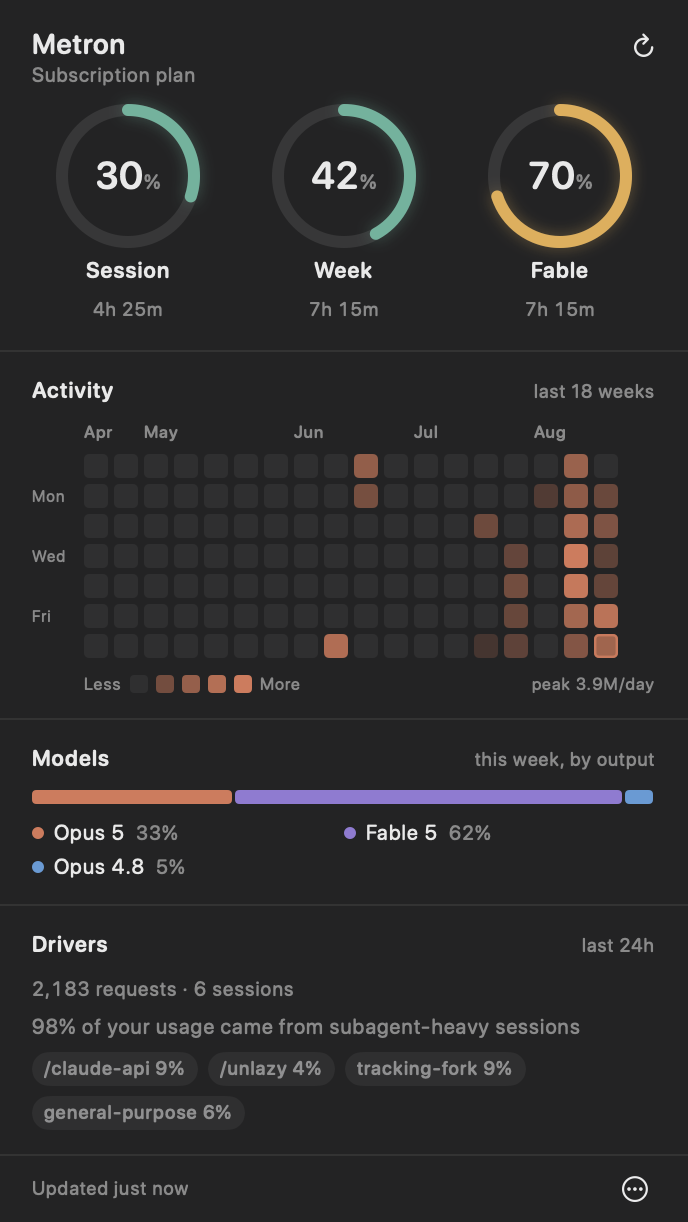
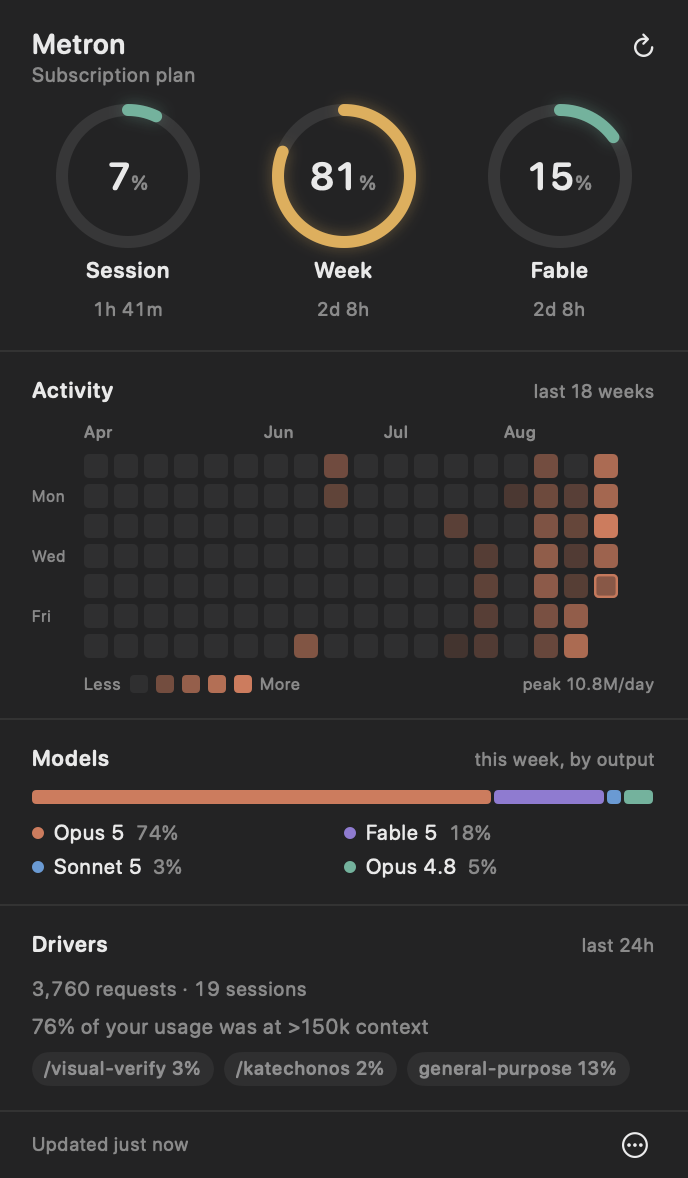
Docs and licence for the multi-glance app
README covers the four glances, where each number comes from, the widget
sizes and the multi-display controls, and the defaults keys that have no
UI. Adds a note on why these are ordinary windows rather than WidgetKit
extensions: a WidgetKit timeline reload is system-budgeted to tens of
refreshes a day, which is fine for a forecast and useless for a CPU meter.

MIT licence, ahead of publishing.

diff --git a/Sources/Metron/Glances/Usage/UsageWidgets.swift b/Sources/Metron/Glances/Usage/UsageWidgets.swift
@@ -95,14 +95,14 @@ struct UsageLarge: View {
                 }
             }
 
-            Spacer().frame(height: 12)
+            Spacer(minLength: 12)
 
             Text("ACTIVITY")
                 .font(Theme.rounded(8.5, .semibold))
                 .tracking(0.6)
                 .foregroundStyle(Theme.subtle)
                 .padding(.bottom, 6)
-            HeatmapView(history: store.history, weeks: 18, cell: 7, gap: 2.5, showsLegend: false)
+            HeatmapView(history: store.history, weeks: 18, cell: 9, gap: 3, showsLegend: false)
 
             if !store.history.modelTotalsThisWeek.isEmpty {
                 Spacer(minLength: 12)

diff --git a/README.md b/README.md
@@ -1,36 +1,71 @@
 # Metron
 
-A macOS menu bar readout for your Claude usage limits — so you never have to
-open Settings → Usage and hit refresh again.
+A macOS menu bar app for the numbers you'd otherwise have to go and look up —
+Claude usage limits, this machine, the local oMLX server, the NAS. Each one is
+its own menu bar item and its own desktop widget, so a glance is usually enough.
 
-![panel](docs/panel.png)
+![the panel](docs/panel.png)
 
-## What it shows
+![widgets on the desktop](docs/widgets.png)
+
+## The glances
+
+Each glance is an independent readout: its own menu bar slot, its own refresh
+cadence, its own desktop widget. Turn them on and off from the ••• menu under
+**Glances**. Only **Claude usage** is on to begin with.
+
+### Claude usage
 
 - **Limit rings** — every window the server reports (5-hour session, weekly
   all-models, weekly per-model such as Fable), each with a live countdown to
   its reset. The ring turns amber past 70% and red past 90%.
 - **Menu bar glyph** — a filled ring plus the percentage of whichever window is
-  closest to its ceiling, so a glance at the menu bar is usually enough.
+  closest to its ceiling.
 - **Activity heatmap** — a GitHub-style contribution grid of the last 18 weeks,
   built from your local Claude Code transcripts.
 - **Model split** — which models did this week's work, by output tokens.
 - **Drivers** — the same "what's contributing to your limits" attribution the
   `/usage` dialog shows: behaviours, top skills, subagents and MCP servers.
 
+### System
+
+CPU with a per-core strip, memory the way Activity Monitor counts it, network
+throughput up and down, and disk headroom. Read straight from the kernel —
+`host_processor_info`, `host_statistics64`, `NET_RT_IFLIST2` — with no polling
+of external tools.
+
+The menu bar ring tracks CPU by default; **Menu bar shows** switches it to
+memory, network or whichever of the three is currently highest.
+
+### oMLX
+
+The local [oMLX](https://omlx.app) server: which models are resident and what
+each is doing, requests in flight, prefill and generation tok/s, cache hit rate,
+and how much of the weight budget is committed.
+
+### KatechonOS
+
+The NAS: pool health and fullness, every cell's quota and how much of it is
+spent, which services are up, and which image the machine booted against its
+rollback. A degraded pool or a down service outranks a full one in the menu bar
+glyph — the point of a glance is to surface what you'd otherwise learn too late.
+
 ## Where the numbers come from
 
-Two independent sources:
-
-| Panel section | Source | Covers |
+| Glance | Source | Covers |
 |---|---|---|
-| Limit rings, Drivers | `claude -p "/usage"` | Your account — all devices and claude.ai |
-| Heatmap, Model split | `~/.claude/projects/**/*.jsonl` | Claude Code on **this machine** only |
+| Claude usage — rings, drivers | `claude -p "/usage"` | Your account: all devices and claude.ai |
+| Claude usage — heatmap, models | `~/.claude/projects/**/*.jsonl` | Claude Code on **this machine** only |
+| System | Mach and sysctl | This machine |
+| oMLX | `http://127.0.0.1:8000` | The local oMLX server |
+| KatechonOS | `ssh <host> katechon state` | The NAS |
 
-`/usage` is a local slash command. It makes no model call, costs nothing, and
-just reads the same claude.ai limits endpoint the desktop Usage pane uses —
-which is also why Metron needs no API key or token of its own. It shells out to
-your existing `claude` CLI and inherits its authentication.
+No glance holds a credential of its own. `/usage` is a local slash command that
+makes no model call and reads the same limits endpoint the desktop Usage pane
+uses, so it inherits your existing `claude` CLI authentication. oMLX doesn't ask
+for a key on localhost. KatechonOS goes over ssh, so it uses the key you already
+have. Metron deliberately never reads oMLX's `/admin/api/stats`, which returns
+the server's API key in cleartext — a widget has no business holding one.
 
 The heatmap and model split are a *local* view. They deliberately do not match
 the limit rings: they can't see claude.ai chats or your other machines, and they
@@ -45,21 +80,52 @@ cp -R dist/Metron.app /Applications/
 open -a Metron
 ```
 
-Then, from the ••• menu in the panel, turn on **Launch at login**.
+Then, from the ••• menu, turn on **Launch at login**.
 (Launch at login only works from `/Applications`.)
 
-## The desktop window
+## Desktop widgets
 
-The ••• menu can detach the panel into a borderless window that lives on the
-desktop — drag it anywhere, and it remembers where you put it. **Desktop window
-sits** chooses whether it floats above your other windows or tucks behind them
-like wallpaper furniture. If the display it was parked on goes away, it snaps
-back onto an attached screen rather than stranding itself offscreen.
+Any glance can live on the desktop in one of four sizes — **Small**, **Medium**
+and **Large**, laid out to the same proportions macOS gives its own desktop
+widgets, plus **Full**, the complete panel. Pick one under **Widget size**, then
+**Show desktop widget**.
+
+A widget drags from anywhere on its face and remembers where you put it,
+including which display. **Widget sits** chooses whether it floats above your
+other windows or tucks behind them like wallpaper furniture. If the display it
+was parked on goes away, it snaps back onto an attached screen rather than
+stranding itself offscreen.
+
+If a widget is parked behind other windows — or on a display that's awkward to
+drag to — **Move widget to** places it on any attached display directly.
+
+### Why these aren't WidgetKit widgets
+
+macOS's own desktop widgets are `WidgetKit` extensions, and Metron's are not,
+on purpose. A WidgetKit timeline reload is budgeted by the system: a widget gets
+on the order of tens of refreshes a day, and cannot ask for more. That is fine
+for a weather forecast and useless for a CPU meter or a limit that moves while
+you work. These are ordinary windows, so they update on the cadence you choose,
+down to a second.
 
 ## Settings
 
-All in the ••• menu: refresh interval (30s / 1m / 5m / 15m), whether to show the
-percentage next to the menu bar ring, the desktop window, and launch at login.
+All in the ••• menu, and everything except **Glances**, **Launch at login** and
+the menu bar reading is per glance: refresh interval, widget size, where the
+widget sits, and which display it's on.
+
+A few things have no UI and are read from user defaults:
+
+```bash
+# Point the oMLX glance somewhere other than the default.
+defaults write com.watchman.metron omlx.baseURL -string "http://127.0.0.1:8000"
+
+# Which host the KatechonOS glance reaches over ssh (default: katechon).
+defaults write com.watchman.metron katechon.host -string "katechon.local"
+
+# Or read it over HTTP instead, if you have a tunnel to katechon-ui-serve.
+defaults write com.watchman.metron katechon.baseURL -string "http://localhost:7373"
+```
 
 ## Development
 
@@ -67,11 +133,27 @@ percentage next to the menu bar ring, the desktop window, and launch at login.
 swift build -c release
 ```
 
-`Metron --render out.png` renders the panel to an image with live data — useful
-for design review, since a menu bar popover is awkward to screenshot. Add
-`--window` to render through real AppKit (needed for controls `ImageRenderer`
-can't draw), `--light` for the light appearance, `--floating` for the detached
-window's chrome.
+`Metron --render out.png` renders a glance to an image with live data — useful
+for design review, since a menu bar popover and a borderless widget are both
+awkward to screenshot.
+
+```bash
+Metron --render out.png --glance system --size large
+Metron --render out.png --glance usage  --size full --window
+```
+
+`--glance` takes `usage`, `system`, `omlx` or `katechon`; `--size` takes
+`small`, `medium`, `large` or `full`. Add `--window` to render through real
+AppKit (needed for controls `ImageRenderer` can't draw), `--light` for the light
+appearance, `--scale N` for the pixel scale.
+
+### Adding a glance
+
+Subclass `GlanceStore`, override `load()`, `headline` and `content(_:)`, and add
+it to the list in `GlanceRegistry`. Everything else — the menu bar slot, the
+refresh timer, the desk window and its four sizes, the settings menu, the
+`--render` path — comes with it. `Kit/` holds nothing domain-specific; the four
+glances under `Glances/` hold nothing shared.
 
 ## Notes
 
@@ -79,3 +161,9 @@ window's chrome.
   work.
 - Transcript scanning caches per file by size and mtime, so refreshes after the
   first are cheap. A cold scan of ~470 files / 340 MB takes well under a second.
+- The System glance's rate figures — CPU busy share, network throughput — are
+  differences between consecutive samples, so the first reading after launch is
+  zero and settles on the next tick.
+- The KatechonOS glance gives up on an unreachable host after 12 seconds.
+  `ConnectTimeout` doesn't bound name resolution, and an unresolvable `.local`
+  host can otherwise leave `ssh` wedged in mDNS for minutes.
